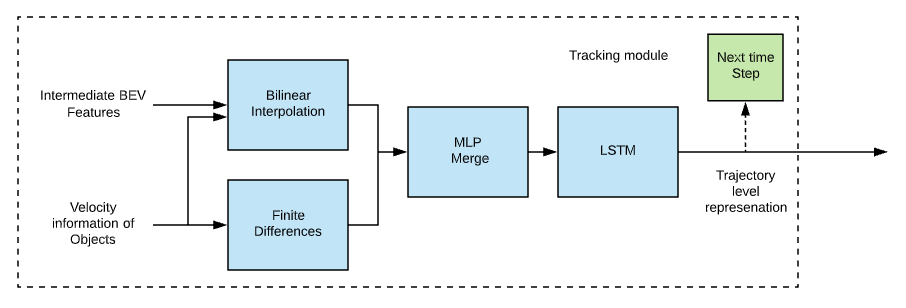
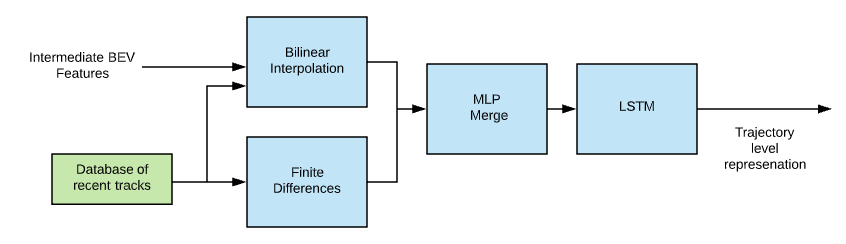
pnpnet update 8

Changed region(s): [[0.0307, 0.0287, 0.9835, 0.9467], [0.0307, 0.2008, 0.1537, 0.2582], [0.6147, 0.1434, 0.7376, 0.2008]]

diff --git a/content/post/pnpnet/index.md b/content/post/pnpnet/index.md
@@ -59,7 +59,7 @@ A qualitative result of fusion models [[3]](#3)
 
 ### Multi-Object Tracking
 
-Multi-Object tracking is a system to track multiple objects at the same time. It consists of a discrete data association problem and a continuous trajectory estimation problem [[4]](#4). There have been efforts to handle occlusion with hand-crafted heuristics [[5]](#5) and single object tracking [[6]](#6) to handle occlusion. To handle the trajectory problem, some approaches also use sensor features but only use up to 3 seconds of temporal history [[7]](#7).
+Multi-Object tracking is a system to track multiple objects at the same time. It consists of a discrete data association problem and a continuous trajectory estimation problem [[4]](#4). There have been efforts to handle occlusion with hand-crafted heuristics [[5]](#5) and single object tracking [[6]](#6) to handle occlusion. To handle the trajectory problem, some approaches also use sensor features[[7]](#7).
 
 ![image](multi-object_tracking.png)
 
@@ -71,7 +71,7 @@ An example of multi-object tracking takes from [[8]](#8)
 
 ### Motion Forecasting
 
-Different methods try to approach the multi-agent motion forecasting problem. *Alahi et al.* propose LSTM based social pooling to model motion [[9]](#9). Social-GAN [[10]](#10) improves on it using adversarial training. The use of sensor features is also explored, but these methods usually have generalization issues when applied to noisy data [[11]](#11).
+Different methods try to approach the multi-agent motion forecasting problem. *Alahi et al.* propose LSTM based social pooling to model motion [[9]](#9). Social-GAN [[10]](#10) improves on it using adversarial training. The use of sensor features is also explored, but these methods usually have generalization issues when applied to noisy data [[11]](#11). Raster representation in BEV that encodes both perception and map information is widely used as well [[2]](#2).
 
 ### Joint models for Perception and Prediction
 
@@ -83,6 +83,14 @@ The FAF paper [[12]](#12) of *Luo et al.* serves as a direct predecessor and an 
 Some qualitative results from NeuralMP [[13]](#13)
 
 </figcaption>
+
+### Motivations for the approach
+
+Research efforts in this sector have developed the field of autonomous driving a lot. However, they also have some shortcomings. Multi-object tracking with supplementary sensor readings can not effectively use a long history of temporal data. These models saturate after three seconds [[7]](#7). Also most-multi object tracking efforts only tackle one of the two tasks at a time. 
+
+Although earlier joint models for perception and prediction use sensor information, they do not exploit the salient features of actors in the time dimension. As a result, their overall performance might be vastly improved with some adjustments. 
+
+As we will see, PnPNet does exactly that. Where earlier models kept the tracking task at the end of the task stack, PnPNet pulls it inside the perception-prediction loop. By doing that, it can utilize trajectory-level representation and can improve performance in all related tasks. It also solves the discrete-continuous tracking problem that other works overlook with a novel tracking framework. PnPNet deviates from the common approach of [[2]](#2) and directly uses perception features for better scene contexts.
 
 # Proposed method: PnPNet
 
@@ -108,7 +116,7 @@ A summary of PnPNet workflow [[1]](#1)
 
 ## 3D Object detection module
 
-The detection module takes multi-sweep LiDAR point cloud representation in birds-eye-view and an HD map as input. Optionally, geometric and semantic information of the HD map can also be used. 2D convolutional neural network-based backbone is applied to the input, which generates the intermediate BEV features that will be used in downstream tasks. A convolutional detection header is then used on the intermediate features to create dense object detections at each time step.
+The detection module takes multi-sweep LiDAR point cloud representation in birds-eye-view and an HD map as input. Optionally, geometric and semantic information of the HD map can also be used. 2D convolutional neural network-based backbone with multi-scale feature fusion is applied to the input, which generates the intermediate BEV features. A convolutional detection header is then used on the intermediate features to create dense object detections at each time step. We maintain a database of intermediate features at each time step because they will be needed to in the tracking module downstream.
 
 ![image](3dmodule.png)
 <figcaption>
@@ -119,7 +127,7 @@ Workflow of the 3D detection module
 
 ## Discrete-Continuous Tracking module
 
-As discussed in the related works, there are two separate challenges in multi-object tracking. Previous works mostly focus on the discrete problem of data association but PnPNet also takes the continuous problem of trajectory estimation into account. The paper argues that it helps to prevent association errors from accumulating over time and reduces the variance in motion history. To that end, it proposes a two-stage tracking framework. To use the framework, rich and concise trajectory level object representation need to be learned. 
+As discussed in the related works, there are two separate challenges in multi-object tracking. Previous works mostly focus on the discrete problem of data association but PnPNet also takes the continuous problem of trajectory estimation into account. The paper argues that it helps to prevent association errors from accumulating over time and reduces the variance in motion history. To that end, it proposes a two-stage tracking framework. To use the framework, rich and concise trajectory level object representation needs to be learned. 
 
 ![image](trackingrep.png)
 <figcaption>
@@ -128,11 +136,13 @@ Trajectory level representation generation
 
 </figcaption>
 
-The representation learning problem is formulated as a sequence modeling problem. We use the intermediate FEV features from the backbone network and the location information of each object at time t to run a Bilinear Interpolation. This output is regarded as the representation of the motion of each object from the start frame to the current frame. Along with this, the absolute velocities of each object are passed into an MLP/feed-forward network. The merged features from this FF network are then used as the sequential input for our LSTM. This LSTM hidden state is our trajectory level representation at each time step.
+The representation learning problem is formulated as a sequence modeling problem. We use the intermediate FEV features from the backbone network and the location information of each object at time t to run a Bilinear Interpolation. Note that the location information is obtained from a database of older trajectories. This output is regarded as the representation of the motion of each object from the start frame to the current frame. Along with this, the absolute velocities of each object are passed into an MLP/feed-forward network. 
+
+The merged features from this FF network are then used as the sequential input for our LSTM. This LSTM hidden state is our trajectory level representation at each time step.
 
 ### Data Association
 
-The first stage of the tracking framework is the discrete tracker. At time t, given N<sub>t</sub> detections and M<sub>t-1</sub> trajectories, it tries to determine the associations between them. This association problem is formulated as a bipartite graph matching problem. As a result, one-to-one matching is guaranteed. The edge values for our bipartite matching problem are the affinity values, which represent how likely is a track M<sub>t-1</sub> to belong to detection N<sub>t</sub>. The affinity matrix :
+The first stage of the tracking framework is the discrete tracker. We obtain the dense detections from the 3D detection module upstream and the trajectories from the database of older tracks. At time t, given N<sub>t</sub> detections and M<sub>t-1</sub> trajectories, it tries to determine the associations between them. This association problem is formulated as a bipartite graph matching problem. As a result, one-to-one matching is guaranteed. The edge values for our bipartite matching problem are the affinity values, which represent how likely is a track M<sub>t-1</sub> to belong to detection N<sub>t</sub>. The affinity matrix :
 $$
  C_{i,j} =
     \begin{cases}
@@ -141,7 +151,14 @@ $$
       −inf & otherwise \\\\
     \end{cases}       
 $$
-The affinity values are calculated with binary or unary MLPs. If we have more or equal number of tracks at the previous step than detections at this step, we use the binary MLP. Otherwise, the unary MLP is used. This bipartite system is solved optimally using the Hungarian algorithm. We use single object tracking for older unmatched tracks. Combining results from bipartite matching and SOT yields a final set of tracks P<sub>t</sub>.
+The affinity values are calculated with binary or unary MLPs. If we have more or equal number of tracks at the previous step than detections at this step, we use the binary MLP. Otherwise, the unary MLP is used. This bipartite system is solved optimally using the Hungarian algorithm. We use single object tracking for older unmatched tracks. Combining results from bipartite matching and SOT yields a final set of unrefined tracks P<sub>t</sub>. This set of unrefined tasks have the candidates for updating the database of older tracks to be used in the future time steps.
+
+![image](association.png)
+<figcaption>
+
+Associating tracks with detections
+
+</figcaption>
 
 #### Single object tracking
 The single object tracker used in the PnPNet paper follows nearly the same methodology as the Siamese tracker [[14]](#14). The Siamese tracker has two networks. One of these twin networks receives an exemplar image as input, another one receives a search image as input. The task for the twin network is to try and find the exemplar image within the search image.
@@ -182,17 +199,37 @@ Trajectory estimation is the second stage in our two-stage tracking network. Thi
 $$
   score_{i}, \Delta u_{i}^{t-T_0+1:t}, \Delta v_{i}^{t-T_0+1:t} = MLP_{refine}(h(P_{i}^t))
 $$
-Using these confidence scores, a non-maximal suppression is applied and only top M<sub>t</sub> tracks are accepted. Other tracks are discarded as false positives.
+Using these confidence scores, a non-maximal suppression is applied and only top M<sub>t</sub> out of P<sub>t</sub> tracks are accepted. Other tracks are discarded as false positives. The database of trajectories is then updated with this accepted tracks set. 
 
+![image](trajectory.png)
+
+<figcaption>
+
+Trajectory estimation sub-module.
+
+</figcaption>
 
 ## Motion Forecasting module
 
-Earlier joint perception and prediction models design the prediction module as another convolutional header. However, PnPnet puts tracking on the detection backbone and creates object trajectory representation. This trajectory representation is then passed through an MLP to estimate motion prediction for each object we are tracking. 
+Earlier joint perception and prediction models design the prediction module as another convolutional header. However, PnPnet puts tracking on the detection backbone and creates object trajectory representation as LSTM hidden states. These hidden states are then passed through an MLP to estimate motion prediction for each object we are tracking in each time step. 
 $$
   \Delta u_{i}^{t:t+\Delta T}, \Delta v_{i}^{t:t+\Delta T} = MLP_{refine}(h(P_{i}^t))
 $$
 Here $\Delta T$ is a parameter of the model that denotes the prediction horizon. 
+
+
 ## End-to-End Training
+
+As the model has a lot of moving parts, it is hard to visualize how the individual modules interact with each other. So here is an illustration that summarizes the workflow:
+![image](e2etrain.jpeg)
+
+<figcaption>
+
+Each rectangular box represents a major process. These boxes are color coded according to their individual modules. A database of tracks is represented with the cylindrical icon.
+
+</figcaption>
+
+As we can see from the figure, PnPNet only has one set of inputs and one set of outputs. This means it can be trained end-to-end.
 
 To train PnPNet end-to-end, a multi-task loss is calculated from the individual losses of its three modules. 
 $$
@@ -303,17 +340,11 @@ Earlier works in the realm of perception and prediction of autonomous driving ha
 
 ## Personal Remarks
 
-#### Using other recurrent units
-
-PnPNet uses an LSTM unit in the tracking module. However, as we know LSTMs need quite a bit of computation resources. In future works, other less expensive recurrent units can be explored for the same task. For example, GRU units [[20]](#20) are computationally less expensive and have been proven to be comparable in terms of performance [[21]](#21).
-
-#### Attention mechanism 
-
-Recently many sequence modeling tasks are leveraging the attention mechanism. As we define our tracking as a sequential problem, it may be useful to apply self-attention on top of the recurrent unit outputs. Although this is not a pure sequence problem, self-attention may refine and provide importance to better trajectory features. Also, built-in attention [[22]](#22) can be applied to the 2D-Convolutional backbone of the 3D detection algorithm.
-
-#### Excerpts from the Q&A
-
-In the paper, the authors limit the number of detection and tracks to a maximum of 50. But the PnPNet considers distances up to 100 meters. But, on busy roads usually far more moving objects within close proximity. The only way for PnPNet to consider this is to increase the *N* and *M* parameters. However, this again results in a massive number of computations for the Hungarian algorithm. The paper doesn't take this problem into account. Perhaps there could be more research in the tracking module so that the computation does not increase in the magnitude of NxM.
+* In the paper, the authors assume the maximum number of detection and tracks to be 50. But, on busy roads usually there are far more moving objects within close proximity. The only way for PnPNet to consider this is to increase the *N* and *M* parameters. However, this again results in a massive number of computations for the Hungarian algorithm. The paper doesn't take this problem into account.
+* The authors only store tracks up to 16 older frames to maintain real-time performance. However, ablation studies show that, keeping tracks up to 32 frames achieves better prediction result. This points to the fact that this model has some performance-efficiency trade-off.
+* The predecessor of PnPNet, FaF[[12]](#12) did not have an explicit tracking module, but still outperformed the Hungarian matching. PnPNet, however, incorporates the Hungarian algorithm in it's design and outperforms FaF. We can posit that continuous track refinement has helped in the association task as well. 
+* PnPNet uses an LSTM unit in the tracking module. However, as we know LSTMs need quite a bit of computation resources. In future works, other less expensive recurrent units can be explored for the same task. For example, GRU units [[20]](#20) are computationally less expensive and have been proven to be comparable in terms of performance [[21]](#21).
+* Recently many sequence modeling tasks are leveraging the attention mechanism. As we define our tracking as a sequential problem, it may be useful to apply self-attention on top of the recurrent unit outputs. Although this is not a pure sequence problem, self-attention may refine and provide importance to better trajectory features. Also, built-in attention [[22]](#22) can be applied to the 2D-Convolutional backbone of the 3D detection algorithm.
 
 # References
 
